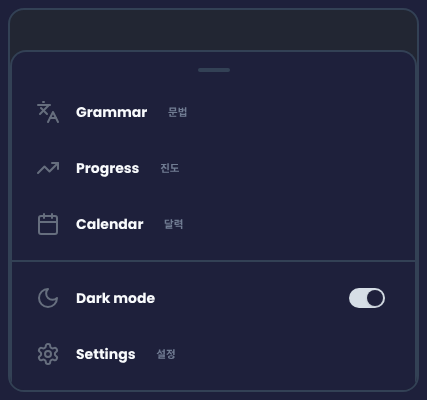
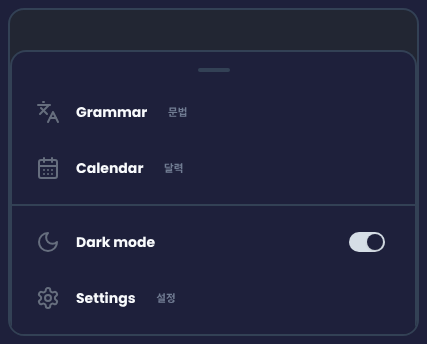
docs(design): no Progress screen, Settings with Theme; dashboard, flashcards and quiz specs with their PNGs

diff --git a/design/quiz.md b/design/quiz.md
@@ -1,0 +1,92 @@
+# Ficha: Quiz (Fase 3)
+
+**Capturas:**
+- `design/png/quiz-home.png`: lo que se ve al abrir;
+- `design/png/quiz-home-full.png`: la página entera;
+- `design/png/quiz-question.png`: pregunta de opciones;
+- `design/png/quiz-wrong.png`: respuesta escrita incorrecta;
+- `design/png/quiz-results.png`: resultados.
+
+Base: `design/shell.md`. Valores en `design/tokens.json`. Pantalla de 411 × 905 dp.
+
+## A · Inicio del quiz (destino Quiz)
+
+1. **JsTopBar:** Quiz · 퀴즈; *Questions built only from your own notes. No excuses if you fail.* · *네 노트로만 만든 문제. 틀려도 변명은 없어.*
+2. **New quiz** · 새 퀴즈: Card con relleno de 16 dp y 16 dp entre bloques.
+   - **Questions** · 문제 수: un selector con − y + (StickerButton Gray Small de 48 dp de ancho, iconos `minus` y `plus` de 20 dp) y el número en medio (24 sp, 800). Va de 1 a 10 (5 por defecto), con *1 to 10* en 12 sp `muted`. En 1 se deshabilita −, y en 10, +.
+   - **Documents** · 문서: un campo con el texto *All documents* y `chevron-left` girado −90°. Abre una hoja con casillas, una por documento procesado, más *All documents*.
+   - **Question types** · 문제 유형: casillas en **2 columnas**. Cada una lleva la casilla de 18 dp (marcada: `action` con `check` blanco; sin marcar: borde de 2 dp `control`), el nombre (`body-bold`), el coreano (11 sp) y la pista (12 sp, `muted`). Las 8 opciones, en este orden:
+     - *Korean → English* · 한국어 → 영어 · *Type the meaning*
+     - *Write in Korean* · 한국어로 쓰기 · *Type the Korean*
+     - *Vocabulary recognition* · 어휘 알아보기 · *Pick the meaning*
+     - *English → Korean* · 영어 → 한국어 · *Pick the Korean word*
+     - *Fill in the blank* · 빈칸 채우기 · *Pick what goes in the gap*
+     - *Multiple choice* · 객관식 · *Pick one answer*
+     - *Grammar selection* · 문법 고르기 · *Pick the correct form*
+     - *Short answer* · 단답형 · *Type a short answer*
+
+     Todas marcadas por defecto menos *Short answer*. Toda la fila es la zona táctil (48 dp de alto como mínimo). Sin ninguna marcada: *Choose at least one question type.* en `wrong`, y Generate quiz deshabilitado.
+   - **Difficulty** · 난이도: igual, en 2 columnas, con *1 · Recall* 기억하기, *2 · Similar options* 비슷한 선택지 y *3 · Apply a rule* 규칙 적용. Debajo del título, *Only questions written by the model change with it.* (12 sp, `muted`). Solo cuenta si hay marcado algún tipo que escribe el modelo; si no, la sección queda al 50 % de opacidad. Sin ninguna marcada: *Choose at least one difficulty.*
+   - **Botones**, de ancho completo y con 8 dp entre ellos: **Generate quiz** · 퀴즈 만들기 (`Go`) y **Practice saved questions** · 저장된 문제 연습 (`Action`). Si no hay preguntas guardadas: Snackbar *You have no saved questions right now.*
+   - Las opciones se guardan entre sesiones (DataStore).
+3. **Quiz for your weaknesses** · 약점 퀴즈 (WeaknessPanel), sobre la foto `flags.jpg`:
+   - el velo `photo-veil-strong`, recortada (Crop) con alineación vertical 0.30, radio 12 y relleno de 16 dp;
+   - debajo del título, *Questions you got wrong and haven't fixed yet, from all your quizzes.* (12 sp, `on-hero-soft`);
+   - cada error: fondo `on-photo-item`, radio 8, relleno de 8 × 12 dp; el documento en negrita con elipsis y *"{fecha} · {tipo} · wrong {n}×"* (12 sp, `on-hero-soft`). Nunca la pregunta ni la respuesta. Se ven como mucho 5;
+   - **Fix these weaknesses** · 약점 고치기 (`Fix`, de ancho completo).
+   - Vacío: *No mistakes to fix. For now.* y el botón deshabilitado. Cargando: *Loading…*.
+4. **Quiz history** · 퀴즈 기록: una Card con una fila por quiz, separadas por un divisor de 2 dp `line`:
+   - un aro de 44 dp con *"{aciertos}/{total}"* (12 sp, 800). Color del aro: 80 % o más, `correct-strong`; 50–79 %, `fix`; menos, `wrong`;
+   - el documento (700, elipsis) y la fecha (12 sp, `muted`);
+   - **Details** · 자세히 (Gray, Small), que abre las respuestas de ese quiz (como los resultados, sección D).
+   - Vacío: *No quizzes yet. Take one.*
+
+## B · Generando
+
+Tras **Generate quiz**, la pantalla de la pregunta muestra el estado de carga de `shell.md` con *Creating your quiz…* (las preguntas por reglas tardan menos de 300 ms, así que casi nunca se ve). Si no se pudo crear ninguna: el recuadro de error con *No questions could be created this time.* y *Try other question types, another document, or try again.*, más **Back** (Gray).
+
+## C · Pregunta (pantalla encima, sin barra inferior)
+
+- **Barra superior pequeña:**
+  - `x` a la izquierda (*Leave quiz*), que abre un diálogo: *Leave this quiz? The answers you already gave are saved, but the rest of the quiz is lost.*, con **Stay** (Gray) y **Leave** (`Danger`); el Back del sistema hace lo mismo;
+  - el título *Quiz* y, a la derecha, *"{n} of {total}"* (12 sp, `muted`).
+- **Progreso:** barra de 6 dp (pista `canvas`, relleno `brand`), con un margen lateral de 16 dp.
+- **This quiz:** tres columnas *Done* 완료 · *Correct* 정답 · *Left* 남음. Etiqueta `label-caps` en `muted` y valor de 20 sp (800); *Correct* en `correct`.
+- **Card de la pregunta** (relleno de 20 dp, 12 dp entre bloques):
+  - fila superior (12 sp, `muted`): el tipo con su coreano a la izquierda y el documento a la derecha;
+  - la pregunta: `ko-prompt` (20 sp, 700) si es coreano, o 20 sp (700) en inglés;
+  - la pista del tipo (12 sp, `muted`);
+  - **opciones** (QuizOption):
+    - de ancho completo, 48 dp como mínimo de alto, relleno de 12 × 16 dp, radio 12 y fondo `canvas`;
+    - el número (12 sp, `muted`) y el texto;
+    - al tocar una, se envía.
+  - **Respuesta escrita:** etiqueta *Your answer* / *Your answer in Korean*, el TextField y **Check** · 확인 (`Action`, de ancho completo en el pie; deshabilitado si está vacío). El teclado empuja el pie (`imePadding`).
+- **Tras responder:**
+  - **Opciones:**
+    - la correcta: `correct-fill`, `check` y *correct* (`correct`), con un `pop` (escala 1.04, 240 ms, spring);
+    - la elegida, si era incorrecta: `wrong-fill`, `x` y *your answer* (`wrong`), con `shake` (±6 dp, 320 ms).
+  - **Respuesta escrita:**
+    - el campo pasa a borde `wrong-border` (o queda normal si acertaste);
+    - debajo, el recuadro `fill-correct` o `fill-wrong`: título de 16 sp (700) con `check` y *Correct!*, o con `x` y *Not quite*; y *Your answer:* / *Correct answer:* (14 sp; la etiqueta en `fill-muted`).
+  - **Pie:** **Next question** · 다음 문제 (`Action`, ancho completo); en la última, **See results** · 결과 보기.
+  - Reducir movimiento: sin `pop` ni `shake`.
+
+## D · Resultados (pantalla encima, sin barra inferior)
+
+- **Barra superior pequeña:** `x` (*Close results*), que vuelve al inicio del quiz.
+- **Card** (relleno de 20 dp):
+  - *"{aciertos} / {total} correct"* (24 sp, 800);
+  - debajo, la frase según la nota (14 sp, `muted`), seguida de *Your answers were saved and count towards your progress.*:
+    - todo bien: *Perfect. Now do it again tomorrow.*
+    - la mitad o más: *Not bad, but not enough. Go again.*
+    - menos de la mitad: *That was weak. Go again.*
+  - **Lista** dentro de un recuadro con borde de 2 dp `line` y radio 12, con un divisor de 2 dp entre filas. Cada fila:
+    - `check` (`correct`) o `x` (`wrong`), de 20 dp;
+    - *"{n}. {pregunta}"* (500);
+    - *Your answer:* en negrita, `correct` o `wrong`;
+    - si fallaste, *Correct answer:* en negrita (`ink`).
+- **Pie:** **New quiz** · 새 퀴즈 (`Action`, ancho completo).
+
+## Datos
+
+Las preguntas por reglas, `is_correct` y `widen_answer` son los de la web (pruebas doradas en `golden/text.json`). Las preguntas que escribe el modelo (Fill in the blank, Multiple choice y Short answer con dificultad) se dejan para la fase 6. Hasta entonces, si solo se eligen esos tipos, se generan por reglas cuando la web también lo hace, o sale el mensaje de *No questions could be created*. Cada respuesta se guarda al instante: una pregunta acertada descansa 7 días antes de volver.

diff --git a/design/flashcards.md b/design/flashcards.md
@@ -1,0 +1,101 @@
+# Ficha: Flashcards (Fase 3)
+
+**Capturas:**
+- `design/png/flashcards-decks.png`: mazos;
+- `design/png/flashcards-edit.png`: modo edición con el diálogo de combinar;
+- `design/png/flashcards-front.png`: anverso;
+- `design/png/flashcards-back.png`: reverso y valoración;
+- `design/png/flashcards-typed.png`: Type the answer.
+
+Base: `design/shell.md`. Valores en `design/tokens.json`. Pantalla de 411 × 905 dp.
+
+## A · Mazos (destino Flashcards)
+
+1. **JsTopBar:** Flashcards · 단어 카드; *Words from your own notes. Review them before you forget them, again.* · *네 노트에서 나온 단어. 또 잊어버리기 전에 복습해.*
+2. **Resumen:** cuatro Card en una fila, con 8 dp entre ellas y relleno de 10 × 4 dp. Etiqueta `label-caps` de 11 sp en `muted` y valor de 24 sp (800): *New · Due now · Learned · Total*.
+3. **Encabezado:** *Continue flashcards* · 단어 카드 계속하기 (`section-title`) y, a la derecha, el lápiz `square-pen` (24 dp, `control`, zona táctil de 48 dp, `aria-label` *Edit decks*). En modo edición, el lápiz pasa a `check` (*Done editing decks*).
+4. **Mazos:** cuadrícula de **2 columnas** de 183 dp, con 12 dp entre ellas. Es el componente DeckCard del sistema:
+   - **Card:** relleno de 12 dp y 8 dp entre partes, todo centrado.
+   - **Fila superior:**
+     - a la izquierda, la papelera `trash-2` (20 dp, `danger`, zona táctil de 48 dp, *Delete {mazo}*);
+     - a la derecha, el icono de Teacher si el mazo lo creó el Coach (`graduation-cap` de 16 dp en un círculo `tint` de 24 dp, color `brand-text`, *Made by Teacher*);
+     - y `badge-canvas` con *"{n} cards"*.
+   - **Nombre:** `body-bold`, una línea y elipsis.
+   - **Contadores:** tres columnas separadas por un divisor de 2 dp `line`. Número de 20 sp (800) y etiqueta `label-caps` de 11 sp en `muted`:
+     - New: `count-new`;
+     - Study: `fix`;
+     - Due: `wrong`.
+   - **Palabra:** la última palabra estudiada o la siguiente que toca, en coreano, a 24 sp (800), una línea. **Sin traducción.** Si el mazo no se ha estudiado: *Not studied yet.* (14 sp, `muted`).
+   - **Botón:** StickerButton Small de ancho completo, **Continue** · 계속하기. Sin tarjetas para hoy: *Nothing due* · 복습 없음, deshabilitado.
+5. **Debajo de los mazos:**
+   - *Create flashcards* · 단어 카드 만들기: Card con el selector *Documents* (que abre una hoja con casillas, como en Quiz), **Create cards** · 카드 만들기 (`Go`) y **Settings** · 설정 (Gray, Small), que abre las opciones de repaso en una hoja.
+   - **Historial de repasos** (*Review history* · 복습 기록). Vacío: *No reviews yet. Open a deck.*
+6. **Estados:**
+   - sin tarjetas: EmptyState con `layers`, *You don't have any cards yet* · 아직 카드가 없어요, *Create cards from a processed document and its deck will show up here.* y **Create cards** (`Go`);
+   - cargando: *Loading decks…*;
+   - error: el recuadro de error.
+7. **Borrar:** la papelera abre un diálogo: *Delete "{mazo}"? Its cards and their progress are deleted too.*, con **Cancel** · 취소 (Gray) y **Yes, delete** · 삭제 (`Danger`). Después, Snackbar *"Deleted {n} cards from {mazo}."* con **Undo**, que restaura las tarjetas y su progreso.
+
+## B · Modo edición
+
+- **Texto bajo el encabezado** (14 sp, `muted`): *Tap a deck's name to rename it. Hold and drag a deck to move it, or drop it on another deck to combine them into one. Your cards and their progress don't change.*
+- **Cada mazo:**
+  - vibra ±0.6° en un bucle de 280 ms; los alternos empiezan 140 ms después;
+  - el nombre se vuelve un campo con una línea inferior de 1 dp `field` (Enter guarda; un nombre vacío vuelve al anterior; máximo 120 caracteres);
+  - Continue queda deshabilitado.
+- **Arrastrar:** mantener pulsado inicia el arrastre. El mazo arrastrado queda al 50 % de opacidad.
+  - **Sobre otro mazo:** aro de 4 dp `brand`; soltarlo abre el diálogo de combinar.
+  - **Entre dos mazos:** una línea de 4 dp `brand` en el borde; soltarlo los reordena.
+- **Diálogo de combinar** (scrim `scrim`, Card con relleno de 24 dp, centrado):
+  - título *Combine into one deck* · 합치기 y debajo los dos nombres (`muted`);
+  - campo *Name of the new deck*, obligatorio;
+  - **Cancel** · 취소 (Gray) y **Combine** · 합치기 (`Action`), este deshabilitado sin nombre.
+  - Al terminar, el mazo arrastrado "vuela" hacia el destino (scale 0.6 + fade, 240 ms) y sale el Snackbar *Combined into "{nombre}".*
+- **Reducir movimiento:** sin vibración ni vuelo.
+
+## C · Sesión de repaso (pantalla encima, sin barra inferior)
+
+- **Barra superior pequeña:**
+  - `chevron-left` (*Back to decks*) y el nombre del mazo (16 sp, 700, elipsis);
+  - a la derecha, *"{n} left"* (12 sp, `muted`).
+- **Opciones de la sesión:**
+  - una fila de FilterPill que se desplaza en horizontal: *Korean → English · English → Korean · Both*, guardada en `UserPrefs.cardDirection`;
+  - debajo, una fila de 48 dp: *Type the answer* · 답 입력하기 con ThemeSwitch a la derecha, guardado en `UserPrefs.typeAnswer`; solo funciona en tarjetas de palabra.
+- **Anverso:**
+  - Card que ocupa el espacio libre (mínimo 256 dp), con relleno de 32 dp y todo centrado;
+  - etiqueta *NEW* (`badge-tint`, MAYÚSCULAS) si es nueva;
+  - la palabra (`ko-hero`, 30 sp, 700), o la traducción en inglés si la dirección es English → Korean;
+  - con *Type the answer*, un TextField centrado (máximo 320 dp, *Type the meaning* / *Type it in Korean*; Enter muestra la respuesta).
+- **Pie:** **Show answer** · 정답 보기, de ancho completo (`Action`).
+- **Reverso:**
+  - Card con relleno de 24 dp:
+    - el coreano (20 sp, 700);
+    - la romanización (14 sp, `muted`), si existe;
+    - la traducción (20 sp, 800);
+    - *Source: {documento}, page {n}* (12 sp, `muted`).
+  - Debajo, la Card **From your notes** · 내 노트에서 con las secciones que existan: *Structure*, *Explanation*, *Examples* y *Notes*. Etiqueta `label-caps` en `muted`, el coreano con `font-hangul` y su traducción en `muted`.
+- **Valoración:**
+  - cuadrícula de 2 × 2 en el pie, con 8 × 12 dp entre botones, sobre el inset del sistema;
+  - **Again** 다시 (`Danger`) · **Hard** 어려움 (Gray) · **Good** 알맞음 (`Fix`) · **Easy** 쉬움 (`Go`);
+  - cada botón muestra en una tercera línea el intervalo que daría (12 sp, 400, sin mayúsculas), con el formato de `scheduler.label`: `10 min`, `12 h`, `24 h`, `2 d`, `3 mo`, `1 y`;
+  - `aria-label` *"{Rating}, next review in {intervalo}"*.
+- **Type the answer**, en el reverso, bajo un divisor de 2 dp `line`:
+  - El veredicto (16 sp, 700):
+    - *Exactly right* y *Right meaning, different words*: `correct`, con `check`;
+    - *Almost*: `fill-warn`;
+    - *Not quite*: `wrong`, con `x`;
+    - *You didn't type an answer*: `muted`.
+  - *Your answer:* letra a letra (20 sp, 700):
+    - bien: `correct`;
+    - mal: fondo `wrong-fill`, color `wrong` y subrayado de 2 dp;
+    - de más: fondo `wrong-fill`, color `wrong` y tachada;
+    - falta: subrayado discontinuo de 2 dp `wrong`, color `muted`.
+  - Debajo, un resumen en 12 sp `muted`: *"1 wrong letter: 간 → 관"*.
+- **Giro de la tarjeta:** 400 ms ease-out, en Y, con la cámara a 1000 px. Con *reducir movimiento*, cambio de cara sin girar.
+- **Al valorar:** la siguiente tarjeta entra subiendo 8 dp (240 ms).
+- **Sin tarjetas pendientes:** EmptyState *No cards due in this deck. Don't get comfortable.* y **Back to decks** · 덱으로 돌아가기.
+- **Back del sistema:** vuelve a los mazos sin perder lo valorado (cada valoración se guarda al instante).
+
+## Datos
+
+Lo mismo que la web: tarjetas por documento, SM-2 de `scheduler.py` (pruebas doradas en `golden/sm2.json`), `compareAnswer` (`golden/compare_answer.json`) y las opciones de repaso (Again en minutos; Hard, Good y Easy en horas). Todo en `:core:korean` y `:core:data`; la pantalla solo lee `StateFlow`.

diff --git a/design/dashboard.md b/design/dashboard.md
@@ -1,0 +1,85 @@
+# Ficha: Dashboard (Fase 3)
+
+**Capturas:**
+- `design/png/dashboard.png`: lo que se ve al abrir;
+- `design/png/dashboard-full.png`: la página entera;
+- `design/png/dashboard-dark.png`: oscuro;
+- `design/png/dashboard-empty.png`: sin estudiar hoy y sin datos de quiz.
+
+Base: `design/shell.md` (tema, JsTopBar, JsBottomBar, StickerButton y estados). Valores exactos en `design/tokens.json`.
+
+**Pantalla de referencia:** 411 × 905 dp. Margen lateral de 16 dp, 12 dp entre bloques y desplazamiento vertical. La barra inferior y la del sistema (3 botones) son las de `shell.md`.
+
+## Orden
+
+1. **JsTopBar:** Dashboard · 대시보드; *No excuses. This is where you really stand.* · *변명은 없어. 이게 진짜 네 실력이야.*
+2. **Cuatro KPI** en una cuadrícula de 2 × 2, con 12 dp entre ellos.
+3. **Today's session**, sobre tu foto.
+4. **Calendario del mes**, compacto.
+5. **Progress:** la gráfica.
+
+## 1 · KPI (StatTile)
+
+Card con borde de 2 dp `line`, radio 16 y relleno 14/12/12 dp, todo centrado. Título `label-caps` en `muted`, valor de 22 sp (800) y, debajo, la comparación (11 sp, 800) con su icono de 16 dp.
+
+| KPI | Valor | Comparación |
+|---|---|---|
+| Study streak | `"{n} day"` / `"{n} days"` | Ninguna. Borde y título según la racha: `streak-7` desde 7 días, `streak-15`, `streak-30`, `streak-50` y `streak-70`, cada uno con su `*-title`. A partir de 100 días, 🔥 bajo el número (🔥🔥 a los 150 y 🔥🔥🔥 a los 200), del mismo tamaño que la comparación. Si la racha sube respecto a la última visita, el número da un salto (`bump`: escala 1.15, 280 ms, spring). |
+| Study time | `"6 h 40 m"` (formato de la web, `studyTime`) | Ninguna. |
+| Words learned this week | `"{n} word(s)"` | `trending-up` en `correct` / `trending-down` en `wrong` / `minus` en `muted`, más el porcentaje frente a la semana anterior. |
+| Quiz accuracy this week | `"84%"` | Igual que la anterior. |
+
+- **Cargando:** cada valor muestra `—`.
+- **Error:** el recuadro de error de `shell.md` encima de los KPI, con *Try again*.
+
+TalkBack lee *"Up/Down vs last week: +12%"*.
+
+## 2 · Today's session (TodayHero)
+
+- **Fondo:** tu foto `dashboard.jpeg`, recortada (Crop) con alineación vertical 0.72 y el velo `photo-veil` encima. Radio 12, relleno de 16 × 20 dp y texto blanco. Si no hay foto, el degradado `hero-indigo → hero-violet (30 %) → hero-sky`.
+- **Título:** `label-caps` en `on-hero-soft`: *Today's session* · 오늘의 공부.
+- **Con estudio hoy:** cuatro columnas, *Questions 문제 · Accuracy 정확도 · Cards 카드 · Time 시간*. Etiqueta de 12 sp en `on-hero-soft` y valor de 24 sp (800).
+- **Sin estudio hoy:** una línea de 16 sp (700): *You haven't studied today yet?? That's mediocre.*
+- **Fix this next** · 다음에 고칠 것 (`label-caps`, `on-hero-soft`):
+  - El tema más débil, en coreano: 20 sp, 800.
+  - Etiqueta de prioridad (`label-caps`, radio 12):
+    - `! High priority`: fondo `priority-high-on-photo`, texto `wrong`;
+    - `~ Medium priority`: fondo `priority-medium-on-photo`, texto `fill-warn`;
+    - `✓ Low priority`: fondo `priority-low-on-photo`, texto `correct`.
+  - Debajo, los motivos separados por " · " (14 sp, `on-hero-soft`) y *"Also: …"* con los temas siguientes (12 sp).
+  - Botones Small: **Practice this** · 연습하기 (`Go`; crea un quiz de 5 preguntas de ese tema y abre Quiz), el separador 아니면 (16 sp, 700, `on-hero-soft`, decorativo) y **Ask what to do** · 뭘 할지 묻기 (`Action`; abre Teacher en modo *What should I study?*).
+  - Sin datos de quiz: *Answer some quiz questions first. I can't read your mind.* y ningún botón.
+
+## 3 · Calendario del mes (compacto)
+
+- **Contenedor:** Card con relleno de 12 × 16 dp.
+- **Título:** *November 2026* (14 sp, 700) y el mes en coreano, *11월*, en `muted`.
+- **Días de la semana:** 월화수목금토일 (12 sp, `muted`). La semana empieza en lunes.
+- **Celdas:** 26 dp de alto, radio 8 y 4 dp de separación. Número de 12 sp (500) y símbolo de 10 sp al 75 %:
+  - ✓ (80 % o más): `correct-fill` y `correct`;
+  - ~ (50–79 %): `warn-fill` y `fill-warn`;
+  - ! (menos del 50 %): `wrong-fill` y `wrong`;
+  - sin estudio: `canvas` y `muted`.
+- **Hoy:** aro interior de 2 dp `brand`.
+- **Leyenda:** 11 sp en `muted`.
+
+## 4 · Progress (gráfica, como en la web)
+
+Captura: `design/png/dashboard-full.png`. La pantalla Progress no existe en el móvil (tampoco está en el menú de la web): todo el progreso se ve aquí.
+
+- **Contenedor:** Card con relleno de 16 dp y título *Progress* · 진도.
+- **Selector:** SelectedGroup Small *Day 일 · Week 주 · Month 월 · Year 년*. El periodo elegido se guarda en DataStore.
+- **Gráfica:** 347 × 170 dp. Los cálculos por periodo son los mismos que en la web (`ProgressChart`).
+  - **Barras** (eje izquierdo): por periodo, tres barras juntas con la suma de todos tus mazos al cierre del periodo. New flashcards en `count-new`, Learning en `fix` y Due en `wrong`. Radio 2; no se dibuja una barra si su valor es 0.
+  - **Líneas:**
+    - Study time (min) en `action`, de 2.5 dp con puntos de 2.5 dp;
+    - Quiz accuracy (%) en `orange`, de 2.5 dp con puntos de 3 dp, contra el eje derecho (0–100 %);
+    - un periodo sin respuestas corta la línea de precisión.
+  - **Ejes:** 10 sp, `muted`. La escala izquierda se redondea hacia arriba como en la web (`niceMax`). Las etiquetas de periodo se aclaran para que no se monten (`every`). Rejilla de 1 dp `line`.
+  - **Al tocar un periodo:** tooltip (fondo `tooltip`, texto blanco, 12 sp) con el mismo texto que el `<title>` de la web: *"{periodo}: {min} min, quiz {xx} % ({n} answers), flashcards {a} new, {b} learning, {c} due"*.
+- **Leyenda** (*Chart legend*, 12 sp, `muted`, puede bajar de línea): *Study time (min)* y *Quiz accuracy (%)* con una raya de 3 dp; *New flashcards*, *Learning* y *Due* con un cuadrado de 12 dp.
+- **Sin datos:** el texto centrado *"No study yet in this period."* en `muted`.
+
+## Datos
+
+Los mismos cálculos que la web: el resumen del progreso, el resumen semanal, el calendario del mes y el tema recomendado. Todo sale de Room y se calcula en `:core:data`, fuera del hilo principal; la pantalla solo lee un `StateFlow`. Los días van en la zona del teléfono.

diff --git a/design/shell.md b/design/shell.md
@@ -40,7 +40,7 @@ Fuente de verdad visual: el Design System **Just Study Mobile** (claude.ai, arte
 | **StickerButton** | `shell-button-*` | Colores `Action` · `Go` · `Fix` (texto `on-fix`) · `Danger` · `Gray`. Default: 44 dp visibles + canto de 4 dp. Small: 36 + 3 dp, con zona táctil de 48 dp. Radio 12. Texto `button` (13 sp, 700, MAYÚSCULAS, tracking 0.053em) y coreano opcional debajo (11 sp, 500, 85 %). Al pulsar: relleno `*-pressed`, baja lo que mide el canto y el canto desaparece (90 ms). Deshabilitado: `disabled-fill` y `disabled-ink`, sin canto. Sin ripple. |
 | **JsTopBar** | `shell-topbar-*` | Large Top App Bar: `page-title` (32 sp, 800) y su coreano al 55 % y 60 % de opacidad; subtítulo `muted` 14 sp y subtítulo coreano 11 sp. Al desplazar se pliega a 64 dp con el título en `section-title`. A la derecha, **More** (icono `menu`, 48 dp), que abre MoreSheet. En pantallas de segundo nivel, flecha `chevron-left` a la izquierda. |
 | **JsBottomBar** | `shell-bottombar-*` | NavigationBar de 80 dp más el inset de gestos, fondo `action`. Destinos: **Dashboard** `layout-grid` · **Library** `book-text` · **Flashcards** `layers` · **Quiz** `circle-help` · **Teacher** `graduation-cap`. Etiquetas `nav-label` (12 sp, 700) en Title Case, blancas. Activo: indicador de 64 × 32 dp `nav-active` e icono con trazo 2.5. El icono se anima una vez al elegirlo. |
-| **MoreSheet** | `shell-moresheet-*` | ModalBottomSheet `surface` con radio superior 16, borde `line` y asa de 32 × 4 dp. Filas de 56 dp: icono 24 dp `control`, nombre `body-bold` y coreano `ko-side` (como en la web: 0.75 em del texto al lado, 700, a 0.45 em; aquí 10.5 sp). Orden: Grammar `languages` 문법 · Progress `trending-up` 진도 · Calendar `calendar-days` 달력 · divisor · Dark mode `moon` + ThemeSwitch · Settings `settings` 설정. |
+| **MoreSheet** | `shell-moresheet-*` | ModalBottomSheet `surface` con radio superior 16, borde `line` y asa de 32 × 4 dp. Filas de 56 dp: icono 24 dp `control`, nombre `body-bold` y coreano `ko-side` (como en la web: 0.75 em del texto al lado, 700, a 0.45 em; aquí 10.5 sp). Orden: Grammar `languages` 문법 · Calendar `calendar-days` 달력 · divisor · Dark mode `moon` + ThemeSwitch · Settings `settings` 설정. |
 | **ThemeSwitch** | `shell-themeswitch-*` | Como en la web: pista de 36 × 20 dp y círculo de 16 dp, con zona táctil de 48 dp (toda la fila de MoreSheet lo activa). Pista `line` (oscuro: `disabled-fill`); encendida, `nav-active`. Círculo blanco con la sombra de la web (Tailwind `shadow`: 0 1 dp 3 dp y 0 1 dp 2 dp −1 dp, negro al 10 %; solo en claro). En oscuro, como en la web: pista `disabled-fill` encendido o apagado y círculo `background`. 150 ms. |
 | **States** | `shell-states-*` | **Vacío:** Card centrada con icono de 40 dp, `section-title` con coreano, una línea `muted` y su acción `Go` si la hay. **Cargando:** el texto de siempre ("Loading…") y LinearProgressIndicator (pista `tint`, barra `brand`) solo si tarda más de 300 ms. **Error:** recuadro `wrong-fill`, icono `badge-alert`, texto `wrong` y *Try again* (Gray, Small). |
 | **Snackbar** | `shell-feedback-*` | Fondo `tooltip`, texto blanco y acción `on-tooltip-action`, encima de la barra inferior. |
@@ -60,17 +60,22 @@ Cada destino muestra su JsTopBar con el título, el coreano y el subtítulo **de
 | Quiz | Quiz · 퀴즈 | Questions built only from your own notes. No excuses if you fail. · 네 노트로만 만든 문제. 틀려도 변명은 없어. |
 | Teacher | Teacher · 선생님 | Your teacher answers from your own notes first. For anything else, AI is used. · 선생님은 먼저 네 노트로 대답해. 나머지는 AI를 사용해. |
 | Grammar | Grammar · 문법 | Explore Korean grammar with clear explanations and examples. (sin subtítulo coreano, como en la web) |
-| Progress | Progress · 진도 | Mastery = correct answers in your last 10 for each topic, out of 10. The numbers don't lie. · 숙달도 = 주제별 최근 10문제 중 맞힌 수. 숫자는 거짓말 안 해. |
 | Calendar | Calendar · 달력 | Every day you studied, and every day you didn't. · 공부한 날도, 안 한 날도 전부. |
 | Settings | Settings · 설정 | — |
 
-Grammar, Progress, Calendar y Settings se abren **encima** del destino actual, con la flecha atrás (no tienen sitio en la barra inferior).
+Grammar, Calendar y Settings se abren **encima** del destino actual, con la flecha atrás (no tienen sitio en la barra inferior).
 
-## Settings (Fase 2: solo respaldo)
+## Settings (Fase 2: tema y respaldo)
 
 Una lista con filas como las de MoreSheet (56 dp, icono, `body-bold` y una línea `muted`):
 
+- **Theme** (`moon`): SelectedGroup Small *System · Light · Dark*, guardado en `UserPrefs.themeMode`. Es la única forma de volver a *System*. El interruptor de MoreSheet sigue eligiendo Light o Dark.
 - **Import backup** (`download`). Abre el selector del sistema (SAF, `.jsbackup.zip`) y luego un diálogo: *"This replaces everything in the app with the backup. Continue?"*, con los botones *Cancel* (Gray) e *Import* (Danger). Mientras importa, LinearProgressIndicator. Al terminar, Snackbar *"Imported 1265 rows from 18 tables."* Si falla, un recuadro de error con el motivo y nada cambia.
 - **Export backup** (`download`, girado 180°). Abre el selector para guardar `juststudy-backup-<fecha>.jsbackup.zip`. Al terminar, Snackbar *"Backup saved."*
 
 Encima de la lista, el JsTopBar de Settings.
+
+
+## Sin pantalla Progress
+
+Como en la web (Progress no está en su menú), el móvil no tiene pantalla Progress. Todo el progreso se ve en la gráfica del Dashboard (`design/dashboard.md`, sección 4). `MoreDestination` queda en Grammar, Calendar y Settings.
